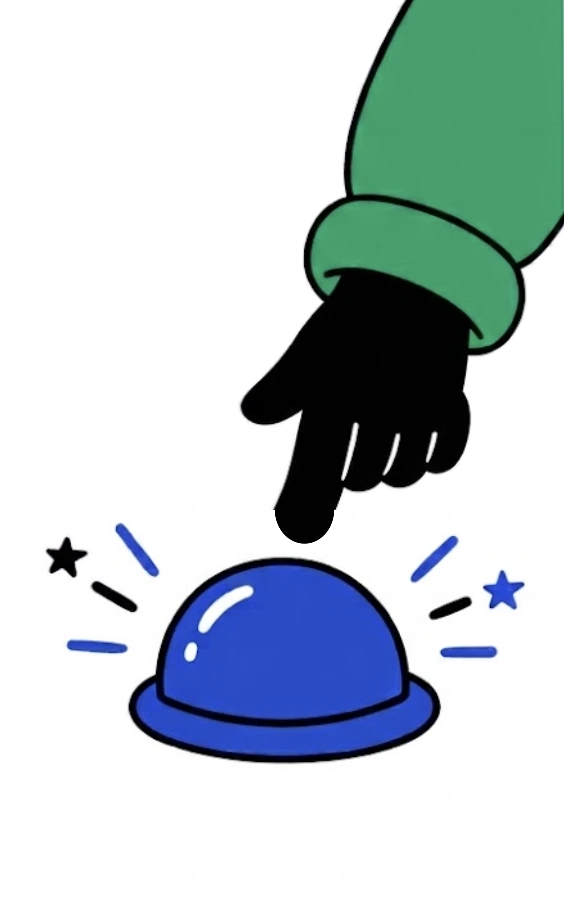
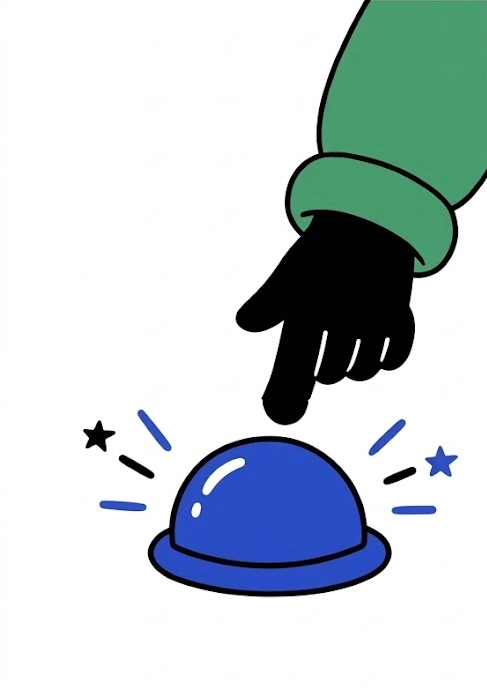
Join band: no-outline handshake art; Send: new 487x693 frames
- Handshake art from handshake-nooutline.png with the dots, flag and
  sparks lifted into animated layers; no outline on the flag or sparks
- Background haze cleared; hand movement still left seams, so the
  sparks keep pulsing
- SEND word, bursts and sleeve fades re-placed for the new frames

diff --git a/index.html b/index.html
@@ -92,21 +92,21 @@ body{font-size:20px}
 .trk-wrap{display:grid;grid-template-columns:minmax(0,1fr) min(340px,30%);gap:36px;align-items:center;margin-top:48px}
 .trk-wrap .ot{box-shadow:7px 7px 0 var(--ink)}
 /* Send drawing (30 Oct): two aligned frames stacked; hovering for ~2.2s, pressed for ~0.5s, loop ~3s */
-.send{position:relative;width:100%;max-width:340px;aspect-ratio:564/908;justify-self:center}
+.send{position:relative;width:100%;max-width:340px;aspect-ratio:487/693;justify-self:center}
 .send .sf,.send .sf img,.send .sword{position:absolute;inset:0;width:100%;height:100%;display:block}
 .send .sf2{opacity:1}.send .sf1{opacity:0}
 /* the sleeve is cut off at the picture's top and right edges: fade those edges into the band */
 .send .sf{
   --fade-top:linear-gradient(to bottom,transparent 0,#000 8%);
-  --fade-right:linear-gradient(to left,transparent 0,#000 8%); /* only beside the sleeve (top 40%), so the burst lines lower down stay crisp */
+  --fade-right:linear-gradient(to left,transparent 0,#000 8%); /* only beside the sleeve (top 44%), so the burst lines lower down stay crisp */
   -webkit-mask-image:var(--fade-top),var(--fade-right),linear-gradient(#000,#000);
-  -webkit-mask-size:100% 100%,100% 41%,100% 61%;-webkit-mask-position:0 0,0 0,0 100%;-webkit-mask-repeat:no-repeat;
+  -webkit-mask-size:100% 100%,100% 44%,100% 57%;-webkit-mask-position:0 0,0 0,0 100%;-webkit-mask-repeat:no-repeat;
   -webkit-mask-composite:source-in,source-over;
   mask-image:var(--fade-top),var(--fade-right),linear-gradient(#000,#000);
-  mask-size:100% 100%,100% 41%,100% 61%;mask-position:0 0,0 0,0 100%;mask-repeat:no-repeat;
+  mask-size:100% 100%,100% 44%,100% 57%;mask-position:0 0,0 0,0 100%;mask-repeat:no-repeat;
   mask-composite:intersect,add}
-.sword text{font-family:'DM Serif Display',Georgia,serif;font-size:92px;fill:#141414;letter-spacing:2px}
-.sword-g{transform-box:view-box;transform-origin:160px 165px}
+.sword text{font-family:'DM Serif Display',Georgia,serif;font-size:84px;fill:#141414;letter-spacing:2px}
+.sword-g{transform-box:view-box;transform-origin:140px 152px}
 @media (prefers-reduced-motion:no-preference){
   .send .sf1{opacity:1;animation:sf1 3s step-end infinite}
   .send .sf2{opacity:0;animation:sf2 3s step-end infinite}
@@ -275,15 +275,15 @@ body{font-size:20px}
     <div class="trk-wrap">
       <div id="tracker-demo"></div>
       <div class="send" role="img" aria-label="Drawing: a finger pressing a big Send button">
-        <picture class="sf sf1"><source srcset="images/send-1.webp" type="image/webp"><img src="images/send-1.png" width="564" height="908" alt="" loading="lazy" decoding="async"></picture>
-        <picture class="sf sf2"><source srcset="images/send-2.webp" type="image/webp"><img src="images/send-2.png" width="564" height="908" alt="" loading="lazy" decoding="async"></picture>
-        <svg class="sword" viewBox="0 0 564 908" aria-hidden="true">
+        <picture class="sf sf1"><source srcset="images/send-1.webp" type="image/webp"><img src="images/send-1.png" width="487" height="693" alt="" loading="lazy" decoding="async"></picture>
+        <picture class="sf sf2"><source srcset="images/send-2.webp" type="image/webp"><img src="images/send-2.png" width="487" height="693" alt="" loading="lazy" decoding="async"></picture>
+        <svg class="sword" viewBox="0 0 487 693" aria-hidden="true">
           <g class="sword-g">
-            <text x="160" y="205" text-anchor="middle" transform="rotate(-6 160 180)">SEND</text>
-            <g class="sbursts" fill="none" stroke="#141414" stroke-width="10" stroke-linecap="round">
-              <path d="M8 146 L32 156 M4 190 L30 188 M12 232 L36 218"/>
-              <path d="M98 88 L108 114 M160 76 L160 104 M222 82 L212 110"/>
-              <path d="M300 112 L280 130 M312 158 L288 162 M304 202 L284 190"/>
+            <text x="140" y="190" text-anchor="middle" transform="rotate(-6 140 165)">SEND</text>
+            <g class="sbursts" fill="none" stroke="#141414" stroke-width="9" stroke-linecap="round">
+              <path d="M6 134 L28 143 M3 174 L27 172 M10 212 L32 199"/>
+              <path d="M86 82 L95 105 M140 70 L140 95 M196 76 L187 101"/>
+              <path d="M262 104 L244 120 M273 146 L252 149 M266 182 L248 172"/>
             </g>
           </g>
         </svg>
@@ -336,8 +336,8 @@ body{font-size:20px}
         <img class="jimg" src="images/handshake.png" width="1200" height="896" loading="lazy" decoding="async" alt="Two people shake hands. A dotted yellow path loops from their hands to a small community hall with a yellow flag and an open door: their chosen charity.">
       </picture>
       <svg class="jfront" viewBox="0 0 1200 896" aria-hidden="true">
-        <g class="jflag"><path d="M1010 33 C1022 29 1034 38 1046 33 C1050 32 1054 32 1058 34 L1045 47 L1058 60 C1048 63 1036 55 1024 60 C1018 62 1013 61 1010 60 Z" fill="#F5F0E6" stroke="#F5F0E6" stroke-width="10" stroke-linejoin="round"><animate attributeName="d" dur="2.5s" repeatCount="indefinite" calcMode="spline" keyTimes="0;0.33;0.66;1" keySplines=".45 0 .55 1;.45 0 .55 1;.45 0 .55 1" values="M1010 33 C1022 29 1034 38 1046 33 C1050 32 1054 32 1058 34 L1045 47 L1058 60 C1048 63 1036 55 1024 60 C1018 62 1013 61 1010 60 Z;M1010 33 C1021 37 1033 28 1046 35 C1050 37 1054 34 1058 37 L1046 49 L1058 62 C1048 59 1035 64 1024 59 C1018 56 1013 59 1010 60 Z;M1010 33 C1023 31 1032 34 1046 31 C1050 30 1054 31 1058 32 L1044 46 L1058 59 C1047 61 1037 57 1024 61 C1017 63 1013 60 1010 60 Z;M1010 33 C1022 29 1034 38 1046 33 C1050 32 1054 32 1058 34 L1045 47 L1058 60 C1048 63 1036 55 1024 60 C1018 62 1013 61 1010 60 Z"/></path><path d="M1010 33 C1022 29 1034 38 1046 33 C1050 32 1054 32 1058 34 L1045 47 L1058 60 C1048 63 1036 55 1024 60 C1018 62 1013 61 1010 60 Z" fill="#F7C21A" stroke="#141414" stroke-width="2.6" stroke-linejoin="round"><animate attributeName="d" dur="2.5s" repeatCount="indefinite" calcMode="spline" keyTimes="0;0.33;0.66;1" keySplines=".45 0 .55 1;.45 0 .55 1;.45 0 .55 1" values="M1010 33 C1022 29 1034 38 1046 33 C1050 32 1054 32 1058 34 L1045 47 L1058 60 C1048 63 1036 55 1024 60 C1018 62 1013 61 1010 60 Z;M1010 33 C1021 37 1033 28 1046 35 C1050 37 1054 34 1058 37 L1046 49 L1058 62 C1048 59 1035 64 1024 59 C1018 56 1013 59 1010 60 Z;M1010 33 C1023 31 1032 34 1046 31 C1050 30 1054 31 1058 32 L1044 46 L1058 59 C1047 61 1037 57 1024 61 C1017 63 1013 60 1010 60 Z;M1010 33 C1022 29 1034 38 1046 33 C1050 32 1054 32 1058 34 L1045 47 L1058 60 C1048 63 1036 55 1024 60 C1018 62 1013 61 1010 60 Z"/></path></g>
-        <g class="jspark"><line x1="563.8" y1="316.0" x2="564.6" y2="346.0" stroke="#F5F0E6" stroke-width="14" stroke-linecap="round"/><line x1="600.6" y1="325.7" x2="583.7" y2="351.8" stroke="#F5F0E6" stroke-width="14" stroke-linecap="round"/><line x1="527.8" y1="328.1" x2="544.4" y2="353.4" stroke="#F5F0E6" stroke-width="14" stroke-linecap="round"/><line x1="563.8" y1="316.0" x2="564.6" y2="346.0" stroke="#F7C21A" stroke-width="6" stroke-linecap="round"/><line x1="600.6" y1="325.7" x2="583.7" y2="351.8" stroke="#F7C21A" stroke-width="6" stroke-linecap="round"/><line x1="527.8" y1="328.1" x2="544.4" y2="353.4" stroke="#F7C21A" stroke-width="6" stroke-linecap="round"/></g>
+        <g class="jflag"><path d="M1010 33 C1022 29 1034 38 1046 33 C1050 32 1054 32 1058 34 L1045 47 L1058 60 C1048 63 1036 55 1024 60 C1018 62 1013 61 1010 60 Z" fill="#F7C21A" stroke="#141414" stroke-width="2.6" stroke-linejoin="round"><animate attributeName="d" dur="2.5s" repeatCount="indefinite" calcMode="spline" keyTimes="0;0.33;0.66;1" keySplines=".45 0 .55 1;.45 0 .55 1;.45 0 .55 1" values="M1010 33 C1022 29 1034 38 1046 33 C1050 32 1054 32 1058 34 L1045 47 L1058 60 C1048 63 1036 55 1024 60 C1018 62 1013 61 1010 60 Z;M1010 33 C1021 37 1033 28 1046 35 C1050 37 1054 34 1058 37 L1046 49 L1058 62 C1048 59 1035 64 1024 59 C1018 56 1013 59 1010 60 Z;M1010 33 C1023 31 1032 34 1046 31 C1050 30 1054 31 1058 32 L1044 46 L1058 59 C1047 61 1037 57 1024 61 C1017 63 1013 60 1010 60 Z;M1010 33 C1022 29 1034 38 1046 33 C1050 32 1054 32 1058 34 L1045 47 L1058 60 C1048 63 1036 55 1024 60 C1018 62 1013 61 1010 60 Z"/></path></g>
+        <g class="jspark"><line x1="563.8" y1="316.0" x2="564.6" y2="346.0" stroke="#F7C21A" stroke-width="6" stroke-linecap="round"/><line x1="600.6" y1="325.7" x2="583.7" y2="351.8" stroke="#F7C21A" stroke-width="6" stroke-linecap="round"/><line x1="527.8" y1="328.1" x2="544.4" y2="353.4" stroke="#F7C21A" stroke-width="6" stroke-linecap="round"/></g>
       </svg>
       <span class="jlabel" aria-hidden="true">Your chosen charity</span>
     </div>
